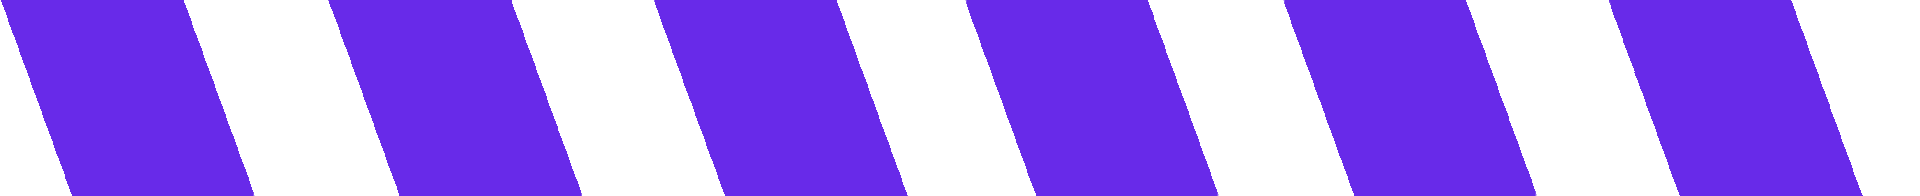
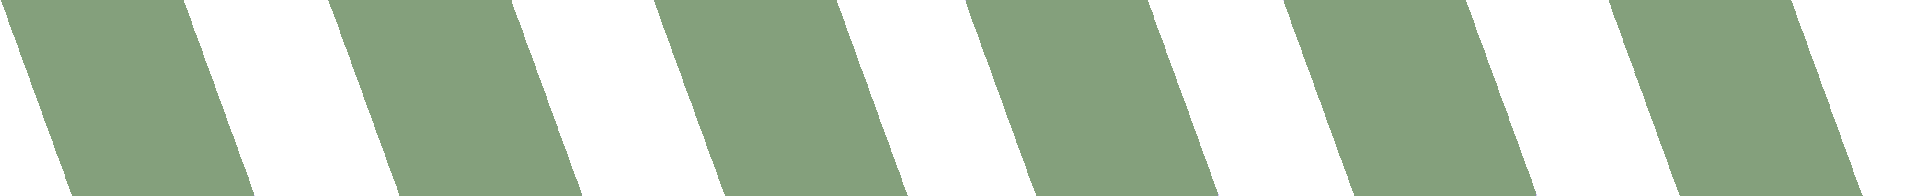
colors

diff --git a/main.css b/main.css
@@ -6,7 +6,7 @@
   box-sizing: border-box;
 }
 body {
-  background: rgb(0, 0, 0);
+  background: #444444;
   min-height: 100vh;
   display: flex;
   flex-direction: column;
@@ -81,9 +81,9 @@ header {
 }
 
 .header-nav ul li a {
-  background: #000000;
+  background: #444444;
   display: block;
-  color: #9e9898;
+  color: #989494;
   padding: 20px 70px;
   text-decoration: none;
   font-size: 25px;
@@ -93,11 +93,7 @@ header {
   transition: 0.6s ease;
 }
 .header-nav ul li a:hover {
-  color: #682ae9;
-}
-
-.header-nav ul li a.active {
-  color: white;
+  color: #84a07c;
 }
 .instagram {
   width: 5px;
@@ -116,7 +112,7 @@ h2 {
   font-size: 60px;
   font-weight: 700;
   color: transparent;
-  -webkit-text-stroke: 1px #682ae9;
+  -webkit-text-stroke: 1px #708090;
   background: url(images/back.png);
   -webkit-background-clip: text;
   background-position: 0 0;
@@ -129,18 +125,16 @@ h2 {
 }
 
 .job {
-  color: #54515a;
+  color: #575d90;
   font-size: 30px;
   font-weight: 700;
   padding: 30px 0 0 0px;
 }
 .static-container {
   position: relative;
-  padding: calc(40vh - 10.5rem) 0 0;
-  margin: 0 25vw;
-  min-height: 89vh;
-  perspective: 900px;
-  perspective-origin: 50% 50vh;
+  padding: calc(30vh - 10.5rem) 0 0;
+  margin: 0 15vw;
+  min-height: 50vh;
   display: grid;
   grid-template-columns: 1fr 1fr;
   grid-gap: 1px;
@@ -153,7 +147,7 @@ h2 {
   position: relative;
   display: inline-block;
   padding: 15px 50px;
-  color: #682ae9;
+  color: #84a07c;
   text-transform: uppercase;
   letter-spacing: 4px;
   text-decoration: none;
@@ -161,9 +155,9 @@ h2 {
   transition: 0.2s;
 }
 .cv:hover {
-  color: #280548;
-  background: #682ae9;
-  box-shadow: 0 0 10px #682ae9, 0 0 40px #682ae9, 0 0 80px #682ae9;
+  color: #444444;
+  background: #84a07c;
+  box-shadow: 0 0 10px #84a07c, 0 0 40px #84a07c, 0 0 80px #84a07c;
 }
 
 footer {
@@ -184,7 +178,7 @@ footer {
   padding: 50px;
 }
 .card {
-  background-color: hsl(0, 3%, 77%);
+  background-color: #84a07c;
   padding: 30px;
   width: 440px;
   height: 500px;
@@ -202,7 +196,7 @@ footer {
 .card-name {
   position: relative;
   text-decoration: underline;
-  text-decoration-color: #682ae9;
+  text-decoration-color: #575d90;
   text-decoration-thickness: 5px;
 }
 
@@ -211,7 +205,7 @@ footer {
   display: inline;
   text-decoration: none;
   color: #ffffff;
-  background-color: #682ae9;
+  background-color: #575d90;
   padding: 0.5em 1.25em;
   border-radius: 10px;
 }
